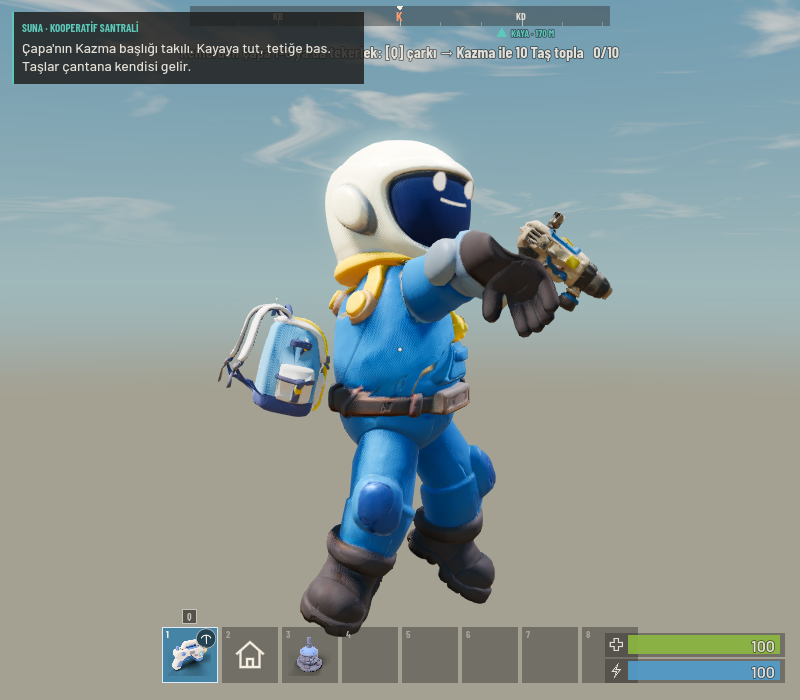
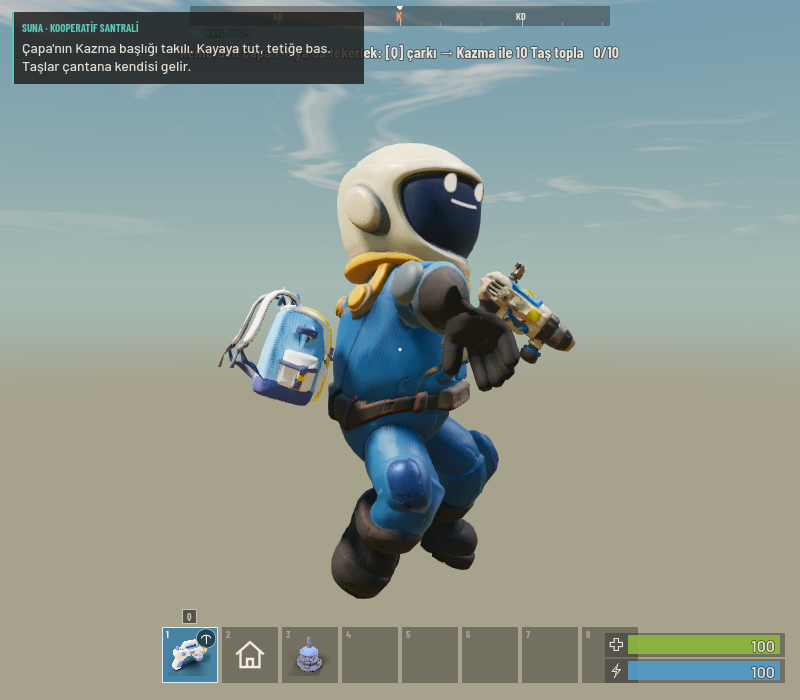
dolap: Main.Tests satiri duzeltildi (vfx testi yorumda kalmisti); oyuncu goruntuleri yenilendi (canta gogse agirlikli)

diff --git a/game/scripts/Main.cs b/game/scripts/Main.cs
@@ -56,7 +56,8 @@ public partial class Main : Node3D
         ["lineup"] =m => { m.AddChild(new ModelLineup()); return true; }, // gorsel-model: her model ayni isikta (progress/gorsel/model/)
         ["camera"] = m => { m.AddChild(new CameraTest()); return false; }, // oyuncu akisi: kamera kipleri, tekerlek, carpisma, nisan, ayar dosyasi
         ["grip"] = m => { Args["mute"] = "1"; Sfx.Muted = true; m.AddChild(new GripTest()); return false; }, // oyuncu akisi: Capa elde, namlu nisanda, araba iki elle
-        ["dolap"] = m => { Args["mute"] = "1"; Sfx.Muted = true; m.AddChild(new DolapTest()); return false; }, // dolap akisi: uye pasifleri, kozmetik, jest, menu, goruntuler (progress/m4/dolap/, pencereli)`r`n        ["vfx"] = m => { Args["mute"] = "1"; Sfx.Muted = true; m.AddChild(new VfxTest()); return false; }, // efekt akisi: kitaplik, durum aurasi, goruntuler (progress/m4/efekt/, pencereli)
+        ["dolap"] = m => { Args["mute"] = "1"; Sfx.Muted = true; m.AddChild(new DolapTest()); return false; }, // dolap akisi: uye pasifleri, kozmetik, jest, menu, goruntuler (progress/m4/dolap/, pencereli)
+        ["vfx"] = m => { Args["mute"] = "1"; Sfx.Muted = true; m.AddChild(new VfxTest()); return false; }, // efekt akisi: kitaplik, durum aurasi, goruntuler (progress/m4/efekt/, pencereli)
         ["playershots"] = m => { Args["mute"] = "1"; Sfx.Muted = true; m.AddChild(new PlayerShots()); return false; }, // oyuncu2: karakter goruntuleri (progress/oyuncu2/, pencereli kosulur)
         ["kemer"] = m => { Args["bot"] = "1"; if (m._quitAfter <= 0) m._quitAfter = 600; m.AddChild(new KemerShots()); return false; }, // karar 23 kaniti: progress/kemer/*.png
         ["save"] = m => { SaveTest.Prepare(); m.AddChild(new SaveTest(m)); return false; }, // kayit: bot bir gun oynar, kaydeder, sahne bastan yuklenir; fark 0 (save/SaveTest.cs)
